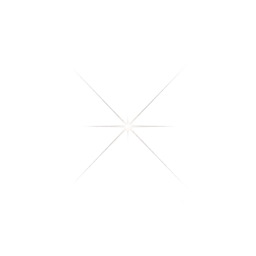
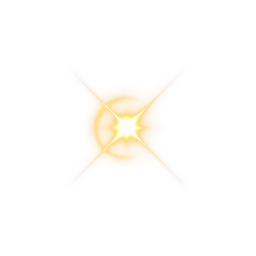
Fix violin completion and enlarge ending stars

diff --git a/tests/activities/violin/violinActivity.test.ts b/tests/activities/violin/violinActivity.test.ts
@@ -1,0 +1,83 @@
+import { describe, expect, it, vi } from 'vitest';
+import { createViolinActivity } from '../../../src/activities/violin/violinActivity';
+import type { ViolinSceneCallbacks } from '../../../src/activities/violin/ViolinScene';
+import { createInitialRunState } from '../../../src/game/runState';
+
+vi.mock('../../../src/game/audio', () => ({
+  prepareViolinSamples: vi.fn().mockResolvedValue(undefined),
+}));
+
+function mountFixture(): { fixture: HTMLElement; mount: HTMLElement } {
+  const fixture = document.createElement('div');
+  const mount = document.createElement('div');
+  fixture.appendChild(mount);
+  document.body.appendChild(fixture);
+  return { fixture, mount };
+}
+
+describe('violinActivity', () => {
+  it('commits a real scene pass before tearing the rhythm game down', async () => {
+    let sceneCallbacks: ViolinSceneCallbacks | undefined;
+    const order: string[] = [];
+    const activity = createViolinActivity((_parent, callbacks) => {
+      sceneCallbacks = callbacks;
+      return {
+        destroy: () => {
+          order.push('destroy');
+        },
+      };
+    });
+    const onComplete = vi.fn(() => order.push('complete'));
+    const { fixture, mount } = mountFixture();
+
+    try {
+      await activity.start({
+        state: createInitialRunState('recipient-house'),
+        mount,
+        onComplete,
+        onCancel: vi.fn(),
+      });
+
+      sceneCallbacks?.onComplete();
+      sceneCallbacks?.onComplete();
+
+      expect(onComplete).toHaveBeenCalledWith({
+        locationId: 'recipient-house',
+        activityId: 'recipient-violin-piece',
+        keepsakeId: 'recipient-sheet-music',
+      });
+      expect(onComplete).toHaveBeenCalledTimes(1);
+      expect(order).toEqual(['complete', 'destroy']);
+    } finally {
+      fixture.remove();
+    }
+  });
+
+  it('does not lose the pass if Phaser teardown throws', async () => {
+    let sceneCallbacks: ViolinSceneCallbacks | undefined;
+    const activity = createViolinActivity((_parent, callbacks) => {
+      sceneCallbacks = callbacks;
+      return {
+        destroy: () => {
+          throw new Error('renderer teardown failed');
+        },
+      };
+    });
+    const onComplete = vi.fn();
+    const { fixture, mount } = mountFixture();
+
+    try {
+      await activity.start({
+        state: createInitialRunState('recipient-house'),
+        mount,
+        onComplete,
+        onCancel: vi.fn(),
+      });
+
+      expect(() => sceneCallbacks?.onComplete()).not.toThrow();
+      expect(onComplete).toHaveBeenCalledTimes(1);
+    } finally {
+      fixture.remove();
+    }
+  });
+});

diff --git a/src/activities/violin/ViolinScene.ts b/src/activities/violin/ViolinScene.ts
@@ -187,7 +187,14 @@ export class ViolinScene extends Phaser.Scene {
 
   update(): void {
     if (this.escapeKey && Phaser.Input.Keyboard.JustDown(this.escapeKey)) {
-      this.deliverCancel();
+      // Once the score has passed, the result is irrevocable. Esc may leave the
+      // result screen early, but it must never turn a successful performance
+      // back into a cancellation with no keepsake.
+      if (this.modelState.phase === 'finale' || this.modelState.phase === 'complete') {
+        this.deliverComplete();
+      } else {
+        this.deliverCancel();
+      }
       return;
     }
 
@@ -233,8 +240,10 @@ export class ViolinScene extends Phaser.Scene {
     this.updateObservability();
 
     if (after.finished && !this.callbackDelivered) {
-      this.callbackDelivered = true;
-      this.time.delayedCall(160, this.callbacks.onComplete);
+      // The five-second finale hold has already given the results room to
+      // breathe. Hand the pass to the story synchronously now so a scene tick,
+      // reload, or teardown cannot strand the player on a successful result.
+      this.deliverComplete();
     }
   }
 
@@ -951,5 +960,13 @@ export class ViolinScene extends Phaser.Scene {
     }
     this.callbackDelivered = true;
     this.callbacks.onCancel();
+  }
+
+  private deliverComplete(): void {
+    if (this.callbackDelivered) {
+      return;
+    }
+    this.callbackDelivered = true;
+    this.callbacks.onComplete();
   }
 }

diff --git a/src/content/galaxyScene.ts b/src/content/galaxyScene.ts
@@ -46,7 +46,7 @@ export const SHORE_WATER_URL = '/assets/tiles/shore-water.png';
 export const GALAXY_VIOLIN_KEY = 'galaxy-ending-violin';
 export const GALAXY_VIOLIN_URL = '/assets/ending/violin-standalone.png';
 
-// Painted flare variants for the ten collectible letter-stars. Cycling a small
+// Warm optical-flare variants for the ten collectible letter-stars. Cycling a small
 // family keeps the dotted field varied without making any one letter feel more
 // important than another. The source PNGs are square transparent cutouts; the
 // per-variant display sizes compensate for their different ray silhouettes.
@@ -54,21 +54,25 @@ export const GALAXY_STAR_VARIANTS = [
   {
     key: 'galaxy-star-flare-1',
     url: '/assets/ending/stars/star-flare-1.png',
-    displaySize: 40,
+    displaySize: 62,
+    angle: 0,
   },
   {
     key: 'galaxy-star-flare-2',
     url: '/assets/ending/stars/star-flare-2.png',
-    displaySize: 42,
+    displaySize: 66,
+    angle: 0,
   },
   {
     key: 'galaxy-star-flare-3',
     url: '/assets/ending/stars/star-flare-3.png',
-    displaySize: 42,
+    displaySize: 66,
+    angle: 0,
   },
   {
     key: 'galaxy-star-flare-4',
     url: '/assets/ending/stars/star-flare-4.png',
-    displaySize: 38,
+    displaySize: 60,
+    angle: 45,
   },
 ] as const;

diff --git a/src/activities/violin/violinActivity.ts b/src/activities/violin/violinActivity.ts
@@ -88,8 +88,14 @@ export function createViolinActivity(
       let game: ViolinGameHandle | null = null;
 
       const destroyGame = (): void => {
-        game?.destroy();
+        const activeGame = game;
         game = null;
+        try {
+          activeGame?.destroy();
+        } catch {
+          // Phaser teardown is best-effort. A renderer cleanup failure must not
+          // undo an activity result that the story has already committed.
+        }
       };
 
       const finish = (callback: () => void): void => {
@@ -98,8 +104,15 @@ export function createViolinActivity(
         }
 
         finished = true;
-        destroyGame();
-        callback();
+        // Commit the activity before tearing down the Phaser instance. The real
+        // rhythm path calls us from inside that instance's own update loop; if
+        // destruction interrupts the loop, story completion must already have
+        // recorded the keepsake and awakening.
+        try {
+          callback();
+        } finally {
+          destroyGame();
+        }
       };
 
       const completePiece = (): void =>

diff --git a/src/scenes/LocationScene.ts b/src/scenes/LocationScene.ts
@@ -5227,12 +5227,13 @@ export class LocationScene extends Phaser.Scene {
       (position, index): GalaxyLetterStarDisplay => {
         const variant = GALAXY_STAR_VARIANTS[index % GALAXY_STAR_VARIANTS.length];
         const glow = this.add
-          .ellipse(position.x, position.y, 74, 74, 0x9cc8ff, 0)
+          .ellipse(position.x, position.y, 96, 96, 0xffd46f, 0)
           .setBlendMode(Phaser.BlendModes.ADD)
           .setDepth(809);
         const flare = this.add
           .image(0, 0, variant.key)
           .setDisplaySize(variant.displaySize, variant.displaySize)
+          .setAngle(variant.angle)
           // Optical overlays are authored as light. Additive blending keeps the
           // rays crisp while discarding any dark fringe from transparent PNG
           // resampling, so they read as plain starlight rather than stickers.

diff --git a/tests/game/galaxyLetters.test.ts b/tests/game/galaxyLetters.test.ts
@@ -11,10 +11,11 @@ import {
 import { GALAXY_STAR_VARIANTS } from '../../src/content/galaxyScene';
 
 describe('galaxy letter ending', () => {
-  it('cycles several painted flare variants across the letter-stars', () => {
+  it('cycles several warm optical flare variants across the letter-stars', () => {
     expect(GALAXY_STAR_VARIANTS).toHaveLength(4);
     expect(new Set(GALAXY_STAR_VARIANTS.map(({ key }) => key)).size).toBe(4);
     expect(GALAXY_STAR_VARIANTS.every(({ url }) => url.endsWith('.png'))).toBe(true);
+    expect(GALAXY_STAR_VARIANTS.every(({ displaySize }) => displaySize >= 60)).toBe(true);
   });
 
   it('lights every letter-star with one violin action', () => {
